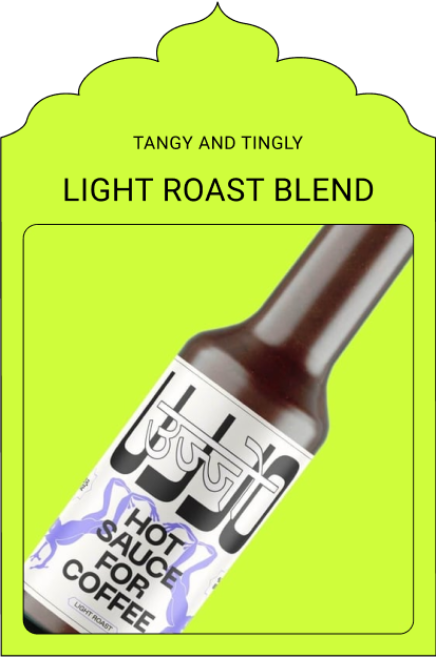
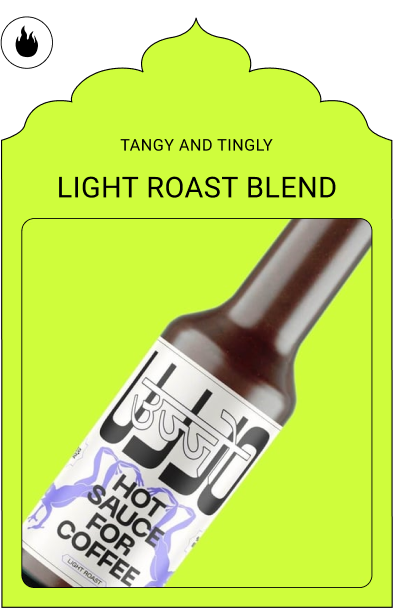
Add elements

Changed region(s): [[0.0, 0.0, 1.0, 0.9984], [0.1832, 0.7176, 0.2137, 0.7488]]

diff --git a/CSS/Landing-2/scss/style.css b/CSS/Landing-2/scss/style.css
@@ -52,7 +52,7 @@ body {
   text-decoration: none;
 }
 
-.scorp span, .main_1 .main_1_sauce_2 span, .main_1 .main_1_sauce_1 .run-string span {
+.hot-string span, .scorp span, .main_1 .main_1_sauce_2 span, .main_1 .main_1_sauce_1 .run-string span {
   color: #000;
   text-align: center;
   font-family: Roboto;
@@ -127,4 +127,40 @@ body {
 .scorp span {
   font-size: 65px;
   line-height: 111.655%;
+}
+
+.main_2 {
+  align-items: center;
+  margin-left: 2vh;
+  margin-right: 2vh;
+  border-left: 1px solid #000;
+  border-right: 1px solid #000;
+  display: flex;
+  flex-direction: row;
+  justify-content: space-between;
+}
+.main_2 .fire_2 {
+  margin-bottom: 55vh;
+  margin-top: 2vh;
+  height: 8vh;
+}
+.main_2 .cupol {
+  margin-left: 2vh;
+  margin-right: 2vh;
+  margin-bottom: 2vh;
+}
+
+.hot-string {
+  border: 1px solid #000;
+  margin-left: 2vh;
+  margin-right: 2vh;
+  padding: 2vh 0;
+  align-items: center;
+  display: flex;
+  flex-direction: row;
+  justify-content: space-between;
+}
+.hot-string span {
+  font-size: 17px;
+  line-height: 152.471%;
 }/*# sourceMappingURL=style.css.map */

diff --git a/CSS/Landing-2/scss/main/main-style.css b/CSS/Landing-2/scss/main/main-style.css
@@ -1,4 +1,4 @@
-.scorp span, .main_1 .main_1_sauce_2 span, .main_1 .main_1_sauce_1 .run-string span {
+.hot-string span, .scorp span, .main_1 .main_1_sauce_2 span, .main_1 .main_1_sauce_1 .run-string span {
   color: #000;
   text-align: center;
   font-family: Roboto;
@@ -73,4 +73,40 @@
 .scorp span {
   font-size: 65px;
   line-height: 111.655%;
+}
+
+.main_2 {
+  align-items: center;
+  margin-left: 2vh;
+  margin-right: 2vh;
+  border-left: 1px solid #000;
+  border-right: 1px solid #000;
+  display: flex;
+  flex-direction: row;
+  justify-content: space-between;
+}
+.main_2 .fire_2 {
+  margin-bottom: 55vh;
+  margin-top: 2vh;
+  height: 8vh;
+}
+.main_2 .cupol {
+  margin-left: 2vh;
+  margin-right: 2vh;
+  margin-bottom: 2vh;
+}
+
+.hot-string {
+  border: 1px solid #000;
+  margin-left: 2vh;
+  margin-right: 2vh;
+  padding: 2vh 0;
+  align-items: center;
+  display: flex;
+  flex-direction: row;
+  justify-content: space-between;
+}
+.hot-string span {
+  font-size: 17px;
+  line-height: 152.471%;
 }/*# sourceMappingURL=main-style.css.map */

diff --git a/CSS/Landing-2/index.html b/CSS/Landing-2/index.html
@@ -66,8 +66,24 @@
             <img src="img\scorpion2.png" alt="">
         </article>
         <article class="main_2">
-            
+            <img src="img\cupol-img1.png" class="cupol" alt="">
+            <img src="img\fire-2.png" class="fire_2" alt="">
+            <img src="img\cupol-img2.png" class="cupol" alt="">
+            <img src="img\fire-2.png" class="fire_2" alt="">
+            <img src="img\cupol-img3.png" class="cupol" alt="">
+        </article>
+        <article class="hot-string">
+            <span>ire in your belly</span>
+            <img src="img\IMAGEPerec.png" alt="">
+            <span>put some fire in your belly</span>
+            <img src="img\IMAGEPerec.png" alt="">
+            <span>put some fire in your belly</span>
+            <img src="img\IMAGEPerec.png" alt="">
+            <span>put some fire in your belly</span>
+            <img src="img\IMAGEPerec (1).png" class="obrezok" alt="">
+
         </article>
     </main>
+
 </body>
 </html>

diff --git a/CSS/Landing-2/scss/main/main-style.scss b/CSS/Landing-2/scss/main/main-style.scss
@@ -73,3 +73,36 @@
     }
     @include displblock(flex,row,space-between)
 }
+
+.main_2 {
+    align-items: center;
+    margin-left: 2vh;
+    margin-right: 2vh;
+    border-left: 1px solid #000;
+    border-right: 1px solid #000;
+    .fire_2 {
+        margin-bottom: 55vh;
+        margin-top: 2vh;
+        height: 8vh;
+    }
+    .cupol {
+        margin-left: 2vh;
+        margin-right: 2vh;
+        margin-bottom: 2vh;
+    }
+    @include displblock(flex,row,space-between)
+}
+
+.hot-string {
+    border: 1px solid #000;
+    margin-left: 2vh;
+    margin-right: 2vh;
+    padding: 2vh 0;
+    align-items: center;
+    span {
+        font-size: 17px;
+        line-height: 152.471%;
+        @extend %textdisign
+    }
+    @include displblock(flex,row,space-between)
+}
